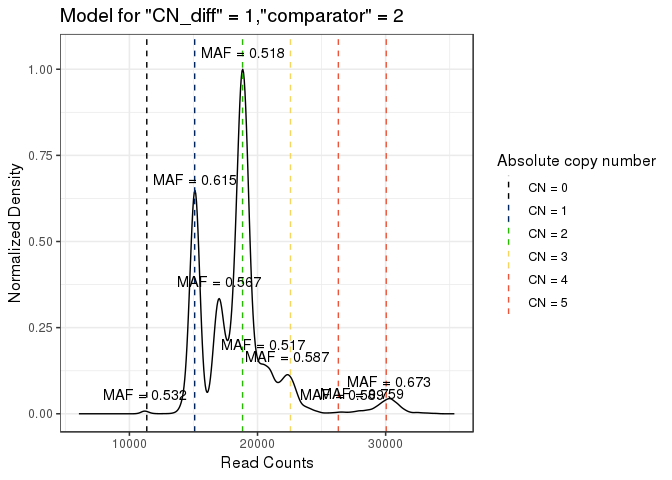
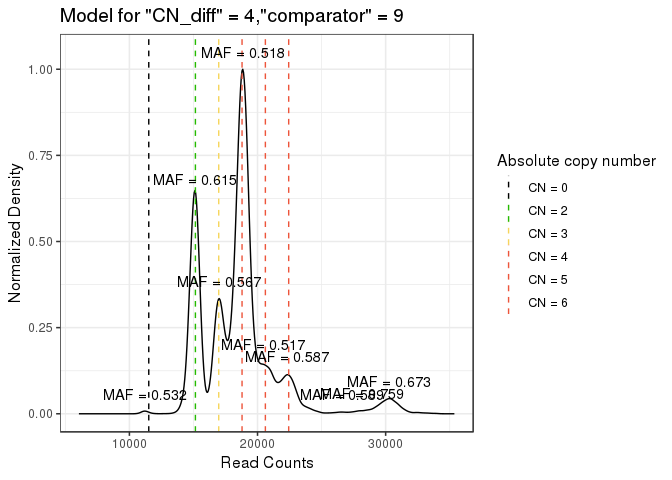
Fixed bug in one-peak cases that caused a crash

diff --git a/demo/Demo.md b/demo/Demo.md
@@ -635,13 +635,13 @@ subclonalcalls$plots[c(3, 5)]
 So let's say that the other model looks more correct for whatever reason. We can force Ploidetect to pick this model, using the information in the table or the plot (note the CN\_diff and comparator values):
 
 ``` r
-newsubclonalcalls <- ploidetect(clonalcase, cndiff = 1, comp = 2, lowest = 0)
+newsubclonalcalls <- ploidetect(clonalcase, cndiff = 4, comp = 9, lowest = 0)
 newsubclonalcalls$TC_calls %>% knitr::kable()
 ```
 
 |     |  reads\_per\_copy|  zero\_copy\_depth|  Ploidy|  tumour\_purity|  lowest\_peak\_CN|  maf\_error|  CN\_diff|  Comparator|  model\_error|  avg\_ploidy|  unmatchedpct|
 |-----|-----------------:|------------------:|-------:|---------------:|-----------------:|-----------:|---------:|-----------:|-------------:|------------:|-------------:|
-| 0   |          3737.881|           11356.66|       2|       0.3969623|                 0|   0.0357153|         1|           2|      2.274904|         1.79|     0.2098118|
+| 0   |          1820.285|           11510.85|       4|       0.2402791|                 0|   0.0809966|         4|           9|       2.67391|         3.45|     0.0165224|
 
 ``` r
 newsubclonalcalls$plots[3]
